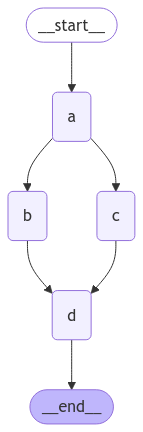
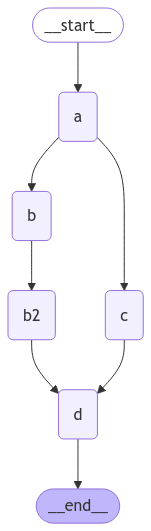
Implemented parallel node fan-out and fan-in with extra steps

diff --git a/async/async.py b/async/async.py
@@ -24,6 +24,10 @@ def b(state: State):
     print(f'Adding "B" to {state["aggregate"]}')
     return {"aggregate": ["B"]}
 
+def b2(state: State):
+    print(f'Adding "B2" to {state["aggregate"]}')
+    return {"aggregate": ["B2"]}
+
 
 def c(state: State):
     print(f'Adding "C" to {state["aggregate"]}')
@@ -38,14 +42,18 @@ def d(state: State):
 builder = StateGraph(State)
 builder.add_node(a)
 builder.add_node(b)
+builder.add_node(b2)
 builder.add_node(c)
 builder.add_node(d)
 builder.add_edge(START, "a")
 builder.add_edge("a", "b")
 builder.add_edge("a", "c")
-builder.add_edge("b", "d")
-builder.add_edge("c", "d")
+builder.add_edge("b", "b2")
+builder.add_edge("b2", "d")
+builder.add_edge(["b2", "c"], "d")
 builder.add_edge("d", END)
+
 graph = builder.compile()
+graph.get_graph().draw_mermaid_png(output_file_path="graph.png")
 
 graph.invoke({"aggregate": []}, {"configurable": {"thread_id": "foo"}})
